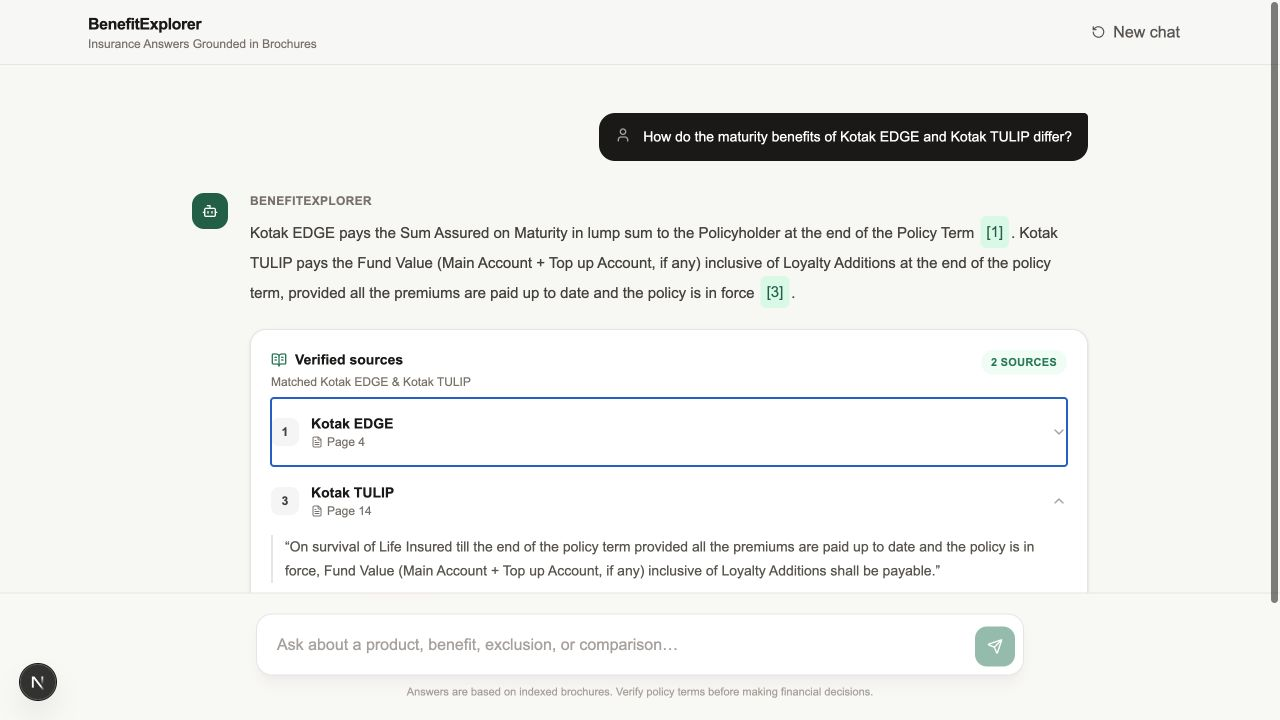
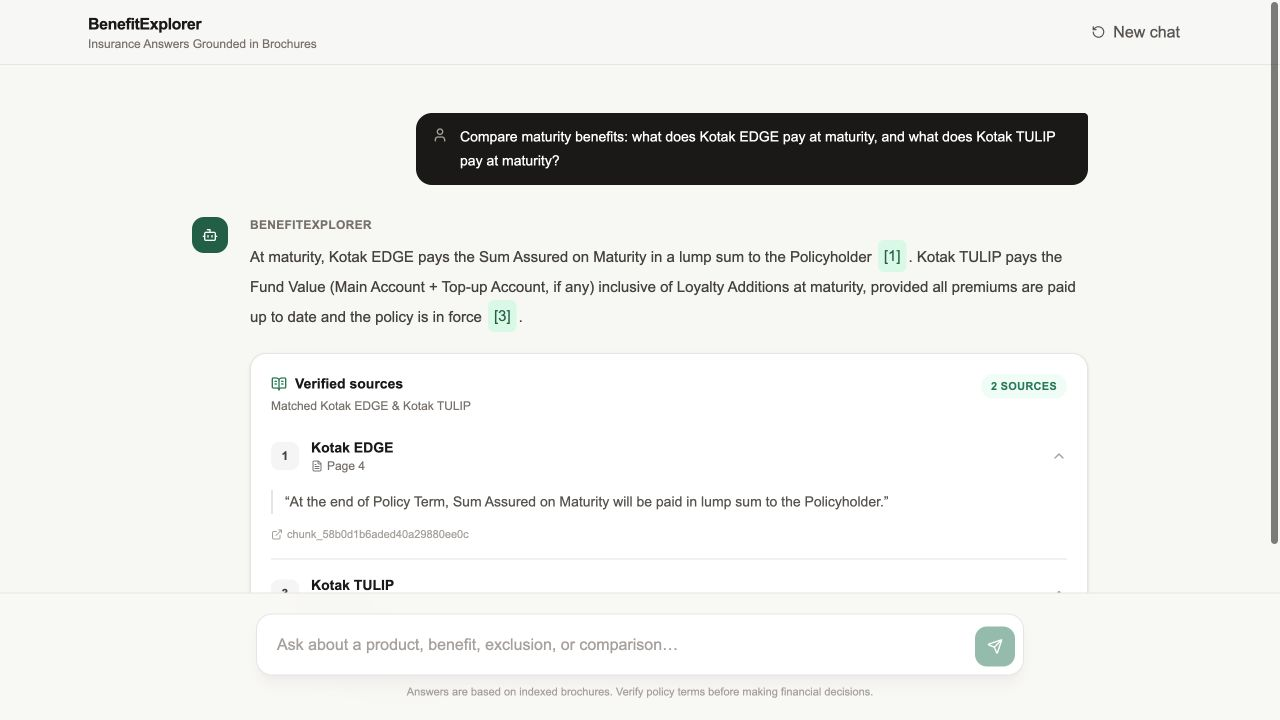
Harden CI and expand integration coverage

diff --git a/frontend/components/insurance-chat.integration.test.tsx b/frontend/components/insurance-chat.integration.test.tsx
@@ -1,0 +1,83 @@
+import { fireEvent, render, screen, waitFor } from "@testing-library/react";
+import { afterEach, beforeEach, describe, expect, it, vi } from "vitest";
+import { InsuranceChat } from "@/components/insurance-chat";
+
+const resultEvent = {
+  event: "result",
+  answer: "Kotak TULIP pays a maturity benefit [1].",
+  citations: [
+    {
+      index: 1,
+      chunk_id: "chunk_tulip",
+      product: "Kotak TULIP",
+      page: 4,
+      supporting_text: "The maturity benefit shall be paid.",
+    },
+  ],
+  detected_products: ["Kotak TULIP"],
+  retrieval_mode: "hard_filter",
+};
+
+function streamResponse(events: object[]) {
+  const payload = `${events.map((event) => JSON.stringify(event)).join("\n")}\n`;
+  return new Response(payload, {
+    status: 200,
+    headers: { "Content-Type": "application/x-ndjson" },
+  });
+}
+
+describe("InsuranceChat streaming flow", () => {
+  beforeEach(() => {
+    Element.prototype.scrollIntoView = vi.fn();
+  });
+
+  afterEach(() => {
+    vi.restoreAllMocks();
+  });
+
+  it("renders a streamed answer and its verified source", async () => {
+    vi.spyOn(globalThis, "fetch").mockResolvedValue(
+      streamResponse([
+        { event: "status", message: "Searching product brochures…" },
+        { event: "answer_delta", delta: "Kotak TULIP pays a maturity benefit [1]." },
+        resultEvent,
+      ]),
+    );
+    render(<InsuranceChat />);
+
+    fireEvent.click(
+      screen.getByRole("button", {
+        name: "What maturity benefit does Kotak TULIP pay?",
+      }),
+    );
+
+    expect(
+      await screen.findByText(/Kotak TULIP pays a maturity benefit/),
+    ).toBeInTheDocument();
+    expect(screen.getByText("Verified sources")).toBeInTheDocument();
+    expect(screen.getByText("Kotak TULIP")).toBeInTheDocument();
+    expect(screen.getByText("Page 4")).toBeInTheDocument();
+  });
+
+  it("shows a readable error when the API is unavailable", async () => {
+    vi.spyOn(globalThis, "fetch").mockResolvedValue(
+      new Response(JSON.stringify({ error: "Backend unavailable" }), {
+        status: 502,
+        headers: { "Content-Type": "application/json" },
+      }),
+    );
+    render(<InsuranceChat />);
+
+    fireEvent.change(
+      screen.getByPlaceholderText(
+        "Ask about a product, benefit, exclusion, or comparison…",
+      ),
+      { target: { value: "What is covered?" } },
+    );
+    fireEvent.click(screen.getByRole("button", { name: "Send question" }));
+
+    await waitFor(() => {
+      expect(screen.getByText("Backend unavailable")).toBeInTheDocument();
+    });
+  });
+});

diff --git a/frontend/vitest.setup.ts b/frontend/vitest.setup.ts
@@ -1,1 +1,5 @@
 import "@testing-library/jest-dom/vitest";
+import { cleanup } from "@testing-library/react";
+import { afterEach } from "vitest";
+
+afterEach(cleanup);

diff --git a/backend/tests/test_hybrid_retriever.py b/backend/tests/test_hybrid_retriever.py
@@ -1,0 +1,80 @@
+from __future__ import annotations
+
+from src.retrieval.hybrid_retriever import HybridRetriever
+from src.retrieval.models import ChunkRecord, DenseHit
+
+
+def _record(chunk_id: str, product: str, text: str) -> ChunkRecord:
+    return ChunkRecord(
+        chunk_id=chunk_id,
+        product_name=product,
+        page_number=1,
+        page_numbers=(1,),
+        section_type="Benefits",
+        section_types=("Benefits",),
+        source_file=f"{product}.pdf",
+        text=text,
+    )
+
+
+class _VectorStore:
+    def __init__(self, records: list[ChunkRecord]) -> None:
+        self.records = records
+
+    def load_records(self) -> list[ChunkRecord]:
+        return self.records
+
+    def dense_search(
+        self,
+        query: str,
+        top_k: int,
+        product_names: tuple[str, ...] = (),
+    ) -> list[DenseHit]:
+        del query
+        records = [
+            record
+            for record in self.records
+            if not product_names or record.product_name in product_names
+        ][:top_k]
+        return [
+            DenseHit(record, score=1.0 / rank, distance=0.1 * rank, rank=rank)
+            for rank, record in enumerate(records, start=1)
+        ]
+
+
+def test_single_product_query_uses_hard_filter() -> None:
+    records = [
+        _record("edge", "Kotak EDGE", "EDGE maturity benefit is paid."),
+        _record("tulip", "Kotak TULIP", "TULIP maturity fund value is paid."),
+    ]
+    retriever = HybridRetriever(_VectorStore(records))  # type: ignore[arg-type]
+
+    result = retriever.retrieve_with_diagnostics(
+        "What maturity benefit does Kotak EDGE pay?",
+        final_k=5,
+    )
+
+    assert result.detected_products == ("Kotak EDGE",)
+    assert result.mode == "hard_filter"
+    assert {item.record.product_name for item in result.results} == {"Kotak EDGE"}
+
+
+def test_comparison_query_keeps_both_products() -> None:
+    records = [
+        _record("edge", "Kotak EDGE", "EDGE maturity benefit is paid."),
+        _record("tulip", "Kotak TULIP", "TULIP maturity fund value is paid."),
+        _record("gain", "Kotak GAIN", "GAIN income benefit is paid."),
+    ]
+    retriever = HybridRetriever(_VectorStore(records))  # type: ignore[arg-type]
+
+    result = retriever.retrieve_with_diagnostics(
+        "Compare Kotak EDGE and Kotak TULIP maturity benefits",
+        final_k=5,
+    )
+
+    assert result.mode == "hard_filter"
+    assert result.detected_products == ("Kotak EDGE", "Kotak TULIP")
+    assert {item.record.product_name for item in result.results} == {
+        "Kotak EDGE",
+        "Kotak TULIP",
+    }

diff --git a/backend/tests/test_api_stream.py b/backend/tests/test_api_stream.py
@@ -1,0 +1,60 @@
+from __future__ import annotations
+
+import json
+
+from fastapi.testclient import TestClient
+
+from src.generation.citation_utils import VerifiedAnswer, VerifiedCitation
+from src.generation.generator import QARun
+from src.main import app
+
+
+class _Pipeline:
+    def answer(self, message: str) -> QARun:
+        assert message == "What does the policy pay?"
+        return QARun(
+            response=VerifiedAnswer(
+                answer="The policy pays the maturity benefit [1].",
+                citations=(
+                    VerifiedCitation(
+                        index=1,
+                        chunk_id="chunk_benefit",
+                        product="Kotak EDGE",
+                        page=4,
+                        supporting_text="The maturity benefit shall be paid.",
+                    ),
+                ),
+            ),
+            final_contexts=(),
+            detected_products=("Kotak EDGE",),
+            product_retrieval_mode="hard_filter",
+        )
+
+
+def test_streaming_api_returns_answer_and_verified_citations(monkeypatch) -> None:
+    monkeypatch.setattr("src.main.build_pipeline", lambda: _Pipeline())
+
+    with TestClient(app) as client:
+        response = client.post(
+            "/api/chat/stream",
+            json={"message": "What does the policy pay?"},
+        )
+
+    assert response.status_code == 200
+    events = [json.loads(line) for line in response.text.splitlines() if line]
+    assert events[0] == {
+        "event": "status",
+        "message": "Searching product brochures…",
+    }
+    result = next(event for event in events if event["event"] == "result")
+    assert result["answer"] == "The policy pays the maturity benefit [1]."
+    assert result["detected_products"] == ["Kotak EDGE"]
+    assert result["retrieval_mode"] == "hard_filter"
+    assert result["citations"][0]["chunk_id"] == "chunk_benefit"
+
+
+def test_streaming_api_rejects_blank_questions() -> None:
+    with TestClient(app) as client:
+        response = client.post("/api/chat/stream", json={"message": ""})
+
+    assert response.status_code == 422

diff --git a/backend/tests/test_reranker.py b/backend/tests/test_reranker.py
@@ -1,0 +1,47 @@
+from __future__ import annotations
+
+import numpy as np
+
+from src.generation.reranker import BGEReranker
+from src.retrieval.models import ChunkRecord, HybridResult
+
+
+class _CrossEncoder:
+    def predict(self, pairs: list[tuple[str, str]], **_: object) -> np.ndarray:
+        return np.linspace(0.9, 0.6, num=len(pairs))
+
+
+def _candidate(chunk_id: str, product: str, text: str) -> HybridResult:
+    record = ChunkRecord(
+        chunk_id=chunk_id,
+        product_name=product,
+        page_number=1,
+        page_numbers=(1,),
+        section_type="Benefits",
+        section_types=("Benefits",),
+        source_file=f"{product}.pdf",
+        text=text,
+    )
+    return HybridResult(record, 0.02, 0.8, 2.0, 1, 1, product_match=True)
+
+
+def test_comparison_reranking_reserves_one_result_per_product() -> None:
+    reranker = BGEReranker(model=_CrossEncoder())
+    candidates = [
+        _candidate("edge-1", "Kotak EDGE", "Sum Assured on Maturity is paid."),
+        _candidate("edge-2", "Kotak EDGE", "Guaranteed Income may accrue."),
+        _candidate("tulip-1", "Kotak TULIP", "Fund Value is payable at maturity."),
+    ]
+
+    ranked = reranker.rerank(
+        "Compare Kotak EDGE and Kotak TULIP maturity benefits",
+        candidates,
+        top_k=2,
+    )
+
+    assert len(ranked) == 2
+    assert {item.record.product_name for item in ranked} == {
+        "Kotak EDGE",
+        "Kotak TULIP",
+    }
+    assert all(item.rerank_score is not None for item in ranked)

diff --git a/README.md b/README.md
@@ -390,7 +390,6 @@ usable evidence. See `evaluation/golden/LABELING.md` for the labeling policy.
 - Add numeric consistency checks for ages, percentages, and policy thresholds
 - Improve comparison-specific clause selection and evidence balancing
 - Expand the golden dataset with independently reviewed labels
-- Add automated backend and frontend test suites to CI
 - Add authentication, observability, and deployment infrastructure
 - Support OCR fallback for scanned brochures and richer table extraction
 
